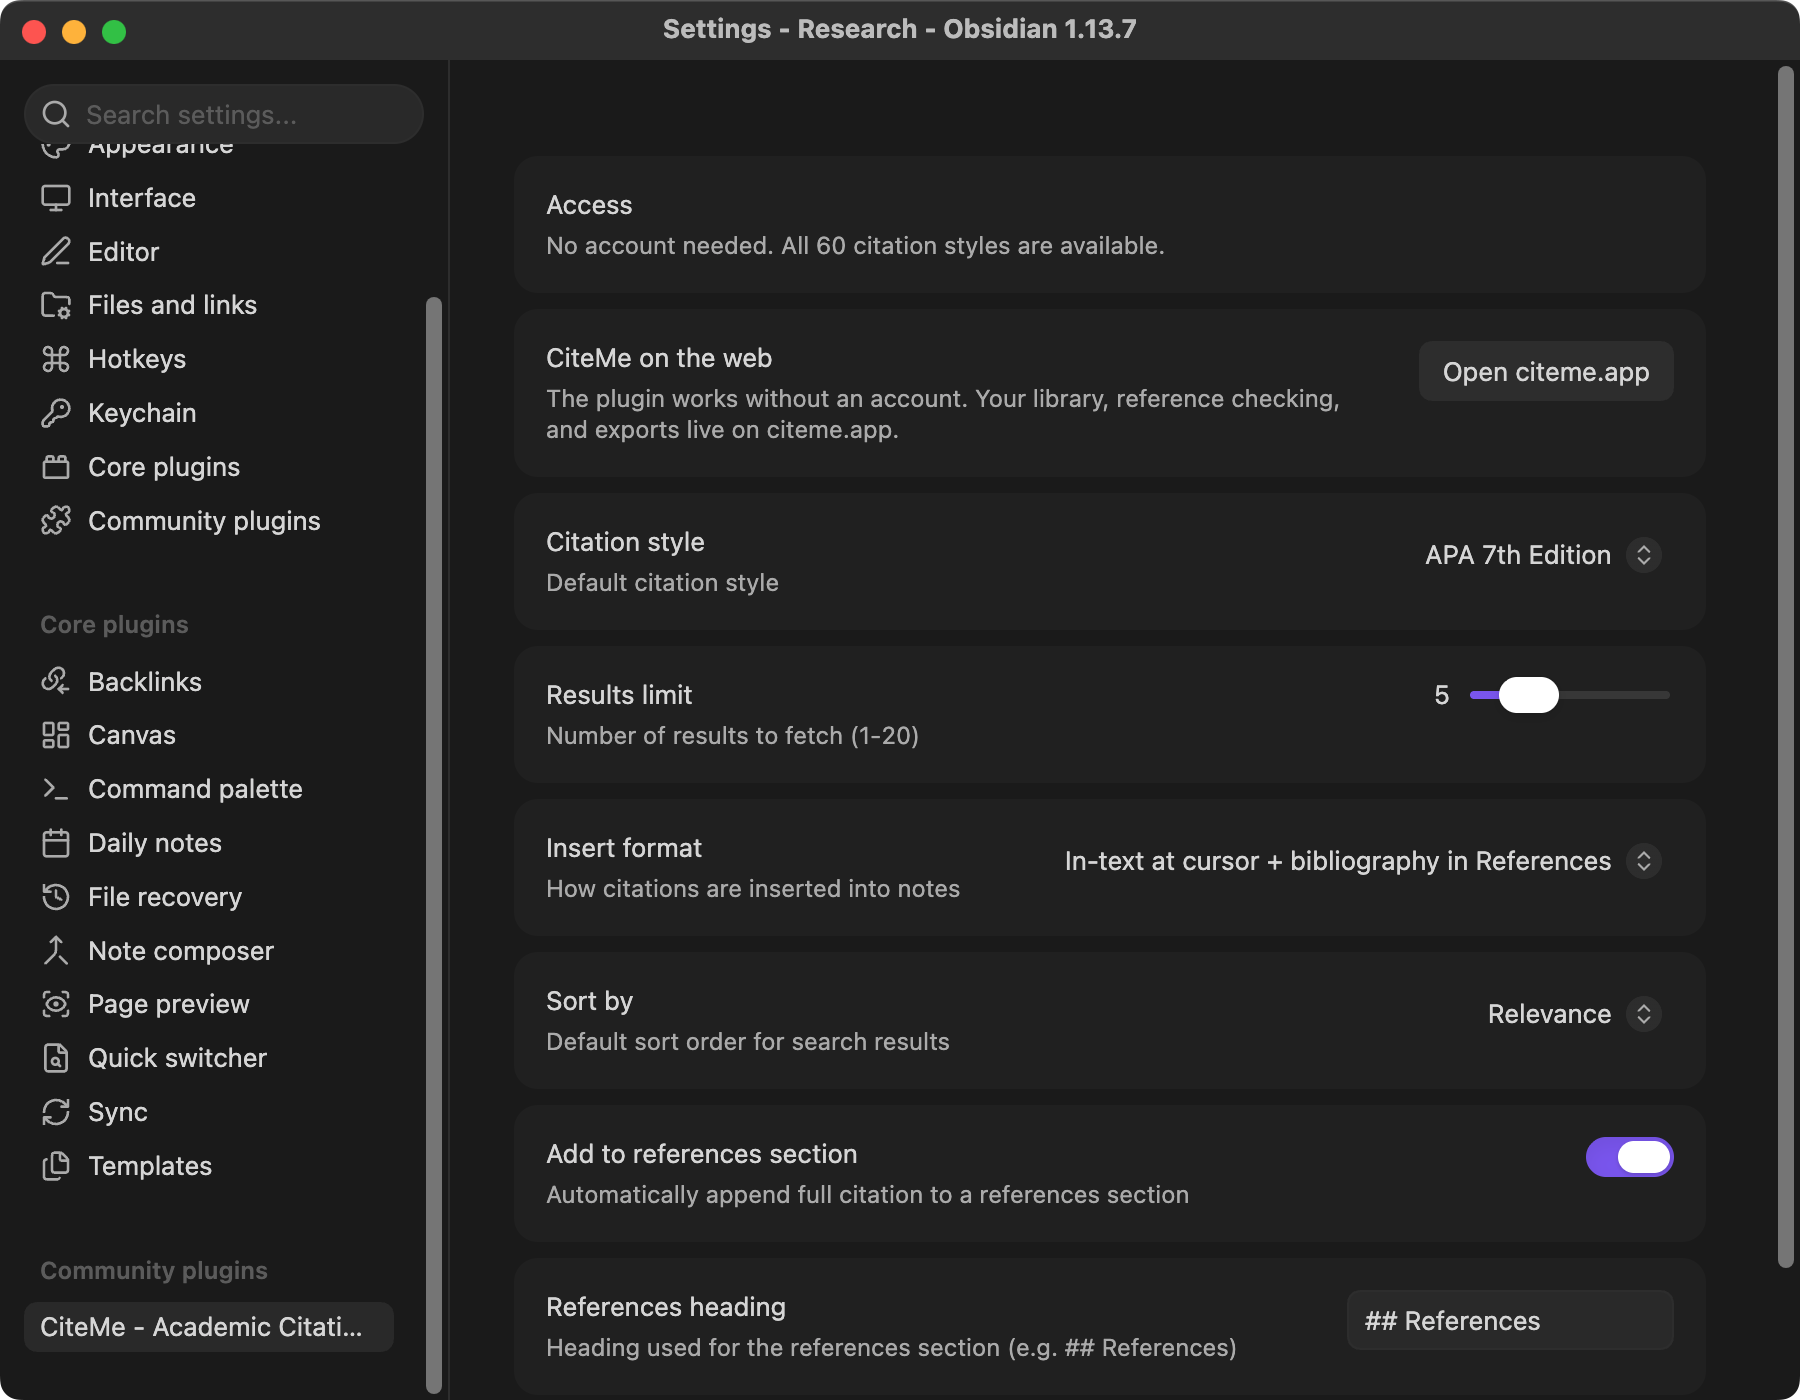
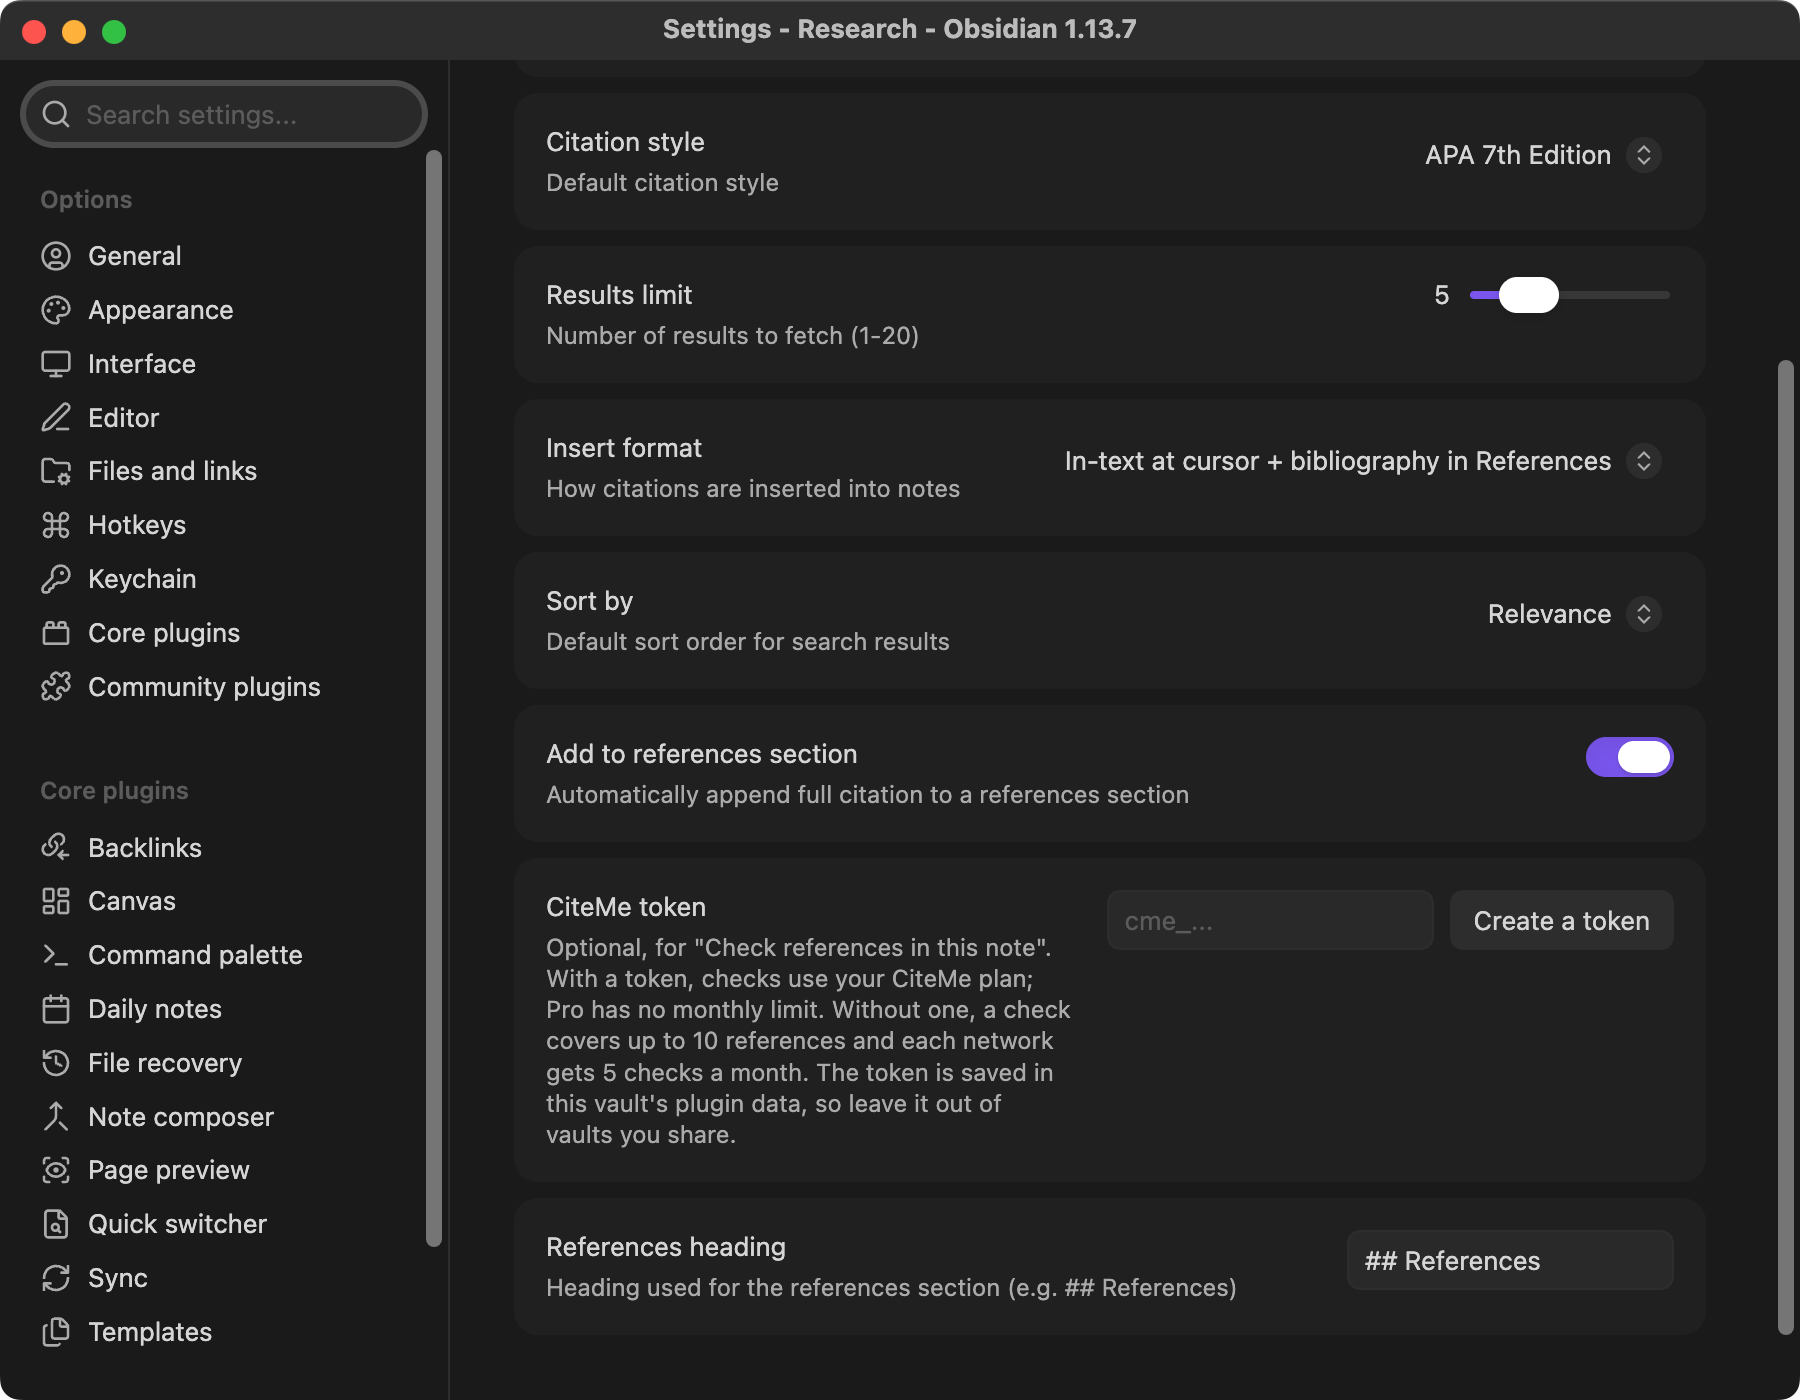
chore: release 1.1.0

diff --git a/README.md b/README.md
@@ -1,6 +1,6 @@
 # CiteMe - Academic Citations for Obsidian
 
-Search scholarly databases and insert formatted citations from CiteMe directly in Obsidian. No account needed.
+Search scholarly databases, insert formatted citations, and check whether the references in a note exist, without leaving Obsidian. No account needed.
 
 ![Searching for a paper from the CiteMe modal in Obsidian](https://raw.githubusercontent.com/danielnichiata96/obsidian-citeme/main/docs/screenshots/search.png)
 
@@ -11,6 +11,7 @@ Search scholarly databases and insert formatted citations from CiteMe directly i
 - **Smart insertion** - Insert in-text citations, full bibliography entries, or both
 - **References management** - Automatically builds and maintains a References section in your notes
 - **Duplicate detection** - Prevents adding the same citation twice (checks by DOI and text)
+- **Reference check** - Checks the references in a note against scholarly databases and marks each one found, to review, or not found
 - **DOI lookup** - Search directly by DOI for precise results
 - **Usage visibility** - Shows your searches in the last 24 hours in the Obsidian status bar
 - **Mobile compatible** - Works on both desktop and mobile Obsidian
@@ -54,9 +55,27 @@ Copy `main.js`, `manifest.json`, and `styles.css` to your vault at `.obsidian/pl
 
 ![An in-text citation in the note and the full entries under References](https://raw.githubusercontent.com/danielnichiata96/obsidian-citeme/main/docs/screenshots/insert-and-references.png)
 
+### Check References
+
+Run "Check references in this note" from the command palette. The plugin sends the selected text, or the entries under your References heading when nothing is selected, to CiteMe's reference checker. You can also select references, right-click, and choose "Check selected references".
+
+Each reference comes back as:
+
+| Result | Meaning |
+|--------|---------|
+| **Found** | A matching record exists; the DOI links to it |
+| **To review** | A partial match, a different DOI, a retracted work, or grey literature |
+| **Not found** | No matching record. Real works that are not indexed also end up here, so check it by hand before assuming it is fabricated |
+
+A match does not confirm the year, journal, or pages.
+
+![Reference check results for a note](https://raw.githubusercontent.com/danielnichiata96/obsidian-citeme/main/docs/screenshots/check-references.png)
+
 ### Limits
 
 The plugin needs no account. Searches share CiteMe's anonymous budget of 500 searches per 24 hours per network, and the status bar shows how many you have used. Search runs after you pause typing, so each query costs one search.
+
+Without an account, a reference check covers up to 10 references and each network gets 5 checks a month. To check longer lists, create a token in your CiteMe settings and paste it into the plugin's "CiteMe token" setting: checks then use your CiteMe plan, and CiteMe Pro has no monthly limit.
 
 ### DOI Lookup
 
@@ -79,6 +98,7 @@ When enabled (default), the plugin automatically:
 | Insert format | Bibliography | How citations are inserted |
 | Sort by | Relevance | Result sorting order |
 | Add to References | On | Auto-append to References section |
+| CiteMe token | Empty | Optional. Reference checks use your CiteMe plan instead of the anonymous limits |
 | References heading | `## References` | Heading text for the references section |
 
 ![CiteMe plugin settings](https://raw.githubusercontent.com/danielnichiata96/obsidian-citeme/main/docs/screenshots/settings.png)
@@ -89,7 +109,7 @@ All 60 curated CiteMe styles are available, including APA, MLA, Chicago (Author-
 
 ## Network & Privacy Disclosure
 
-This plugin connects to the CiteMe API (https://citeme.app) to search academic databases and format citations. Your search text is sent to CiteMe to run the search. Requests are tagged with `X-Source: obsidian-plugin` for channel attribution and carry no account credentials. See CiteMe's privacy policy at https://citeme.app/privacy.
+This plugin connects to the CiteMe API (https://citeme.app) to search academic databases, format citations, and check references. Your search text is sent to CiteMe to run the search. A reference check sends the selected text, or the entries under your References heading, to CiteMe. Requests are tagged with `X-Source: obsidian-plugin` for channel attribution. Searches carry no account credentials. If you add a CiteMe token, reference checks send it in the `Authorization` header; the token is stored in the plugin's `data.json` inside your vault, so leave it out of vaults you share or publish. See CiteMe's privacy policy at https://citeme.app/privacy.
 
 ## Development
 

diff --git a/CHANGELOG.md b/CHANGELOG.md
@@ -5,6 +5,12 @@ All notable changes to the CiteMe plugin for Obsidian will be documented in this
 The format is based on [Keep a Changelog](https://keepachangelog.com/en/1.1.0/),
 and this project adheres to [Semantic Versioning](https://semver.org/spec/v2.0.0.html).
 
+## [1.1.0] - 2026-10-04
+
+### Added
+- "Check references in this note" checks the selected references, or the entries under the References heading, with CiteMe's reference checker. Each reference is marked found, to review, or not found, with the DOI of the matching record. "Check selected references" does the same from the right-click menu.
+- Optional "CiteMe token" setting. With a token, reference checks use your CiteMe plan; CiteMe Pro has no monthly limit. Without one, a check covers up to 10 references and each network gets 5 checks a month.
+
 ## [1.0.2] - 2026-10-04
 
 ### Fixed
